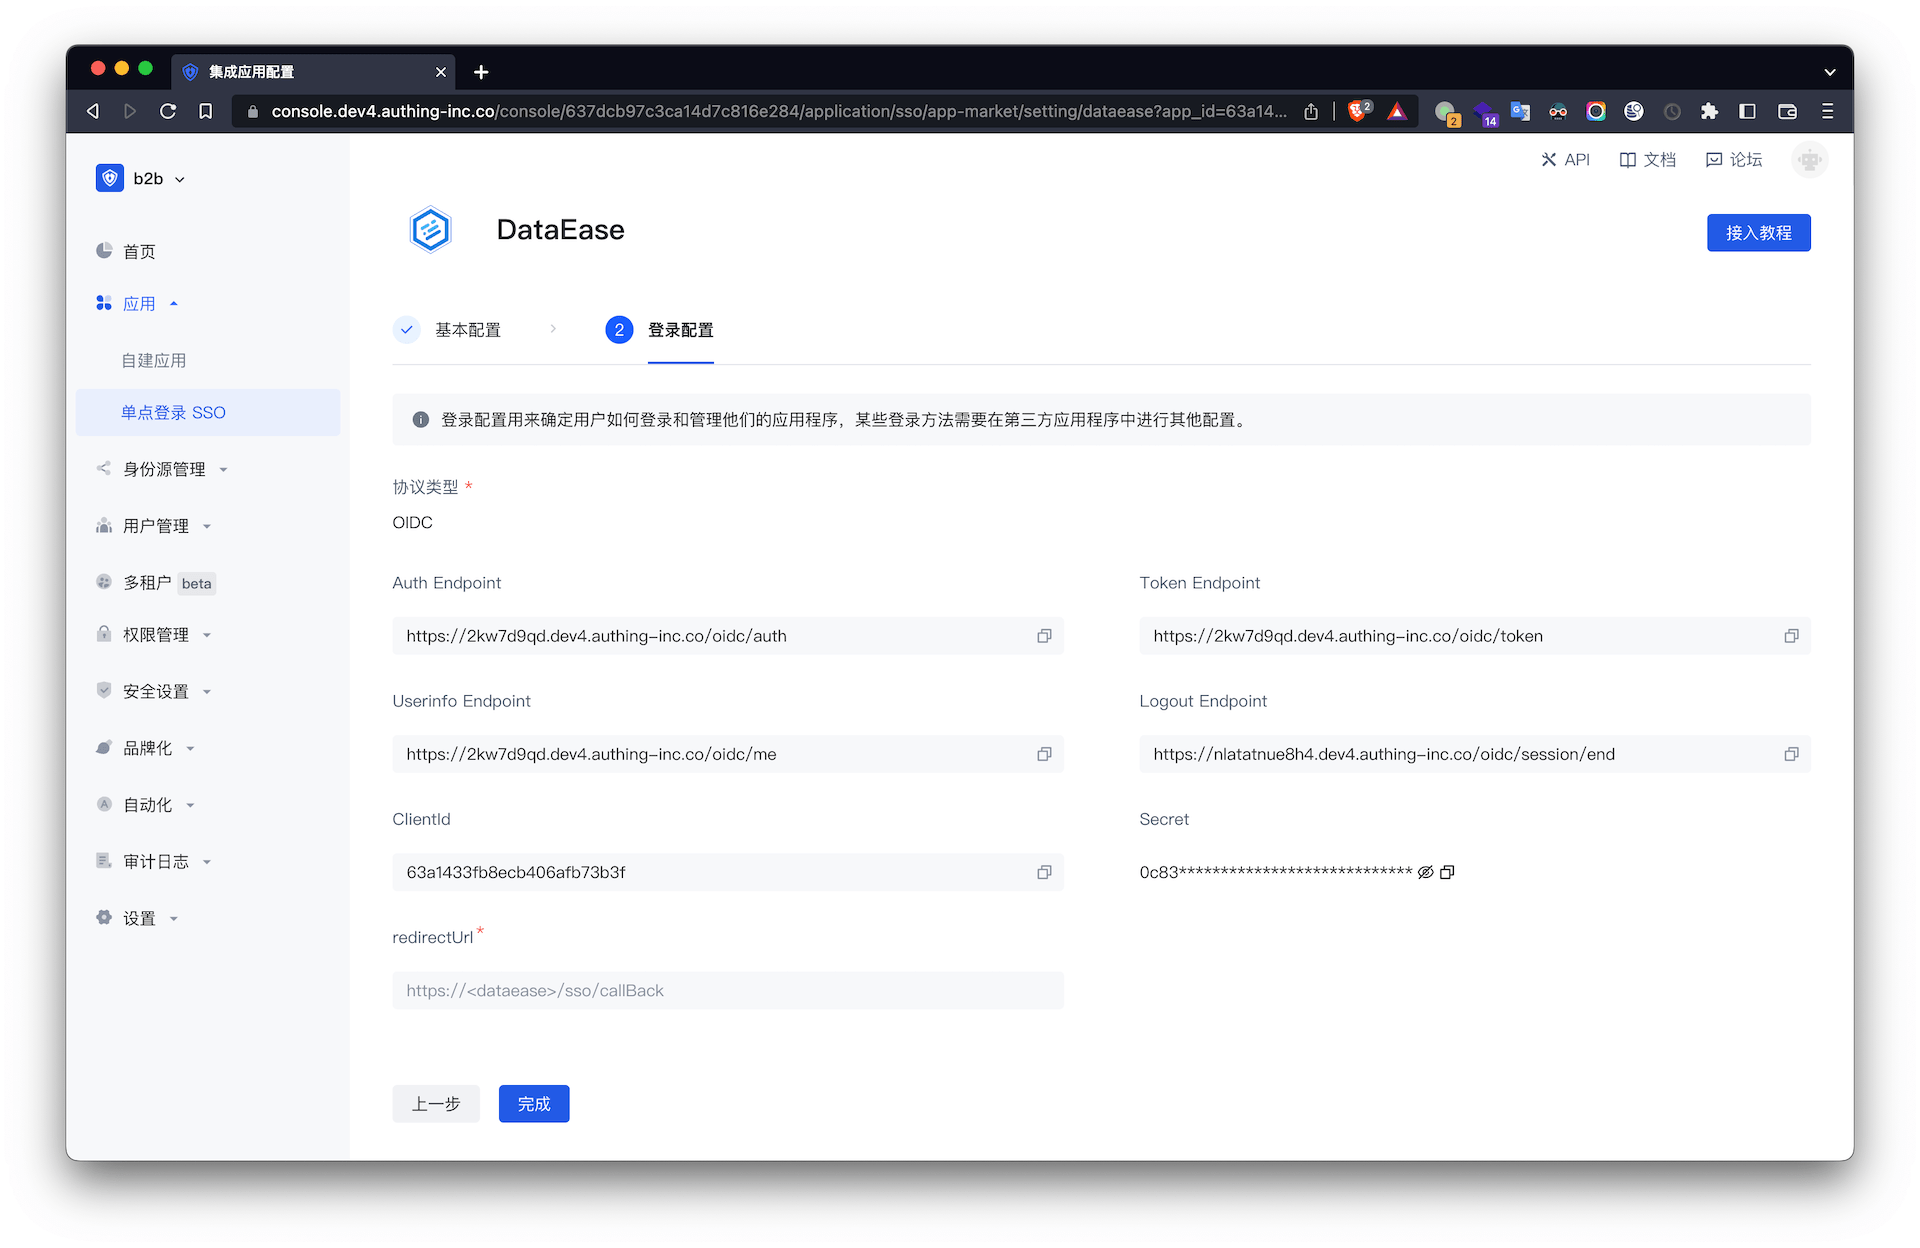
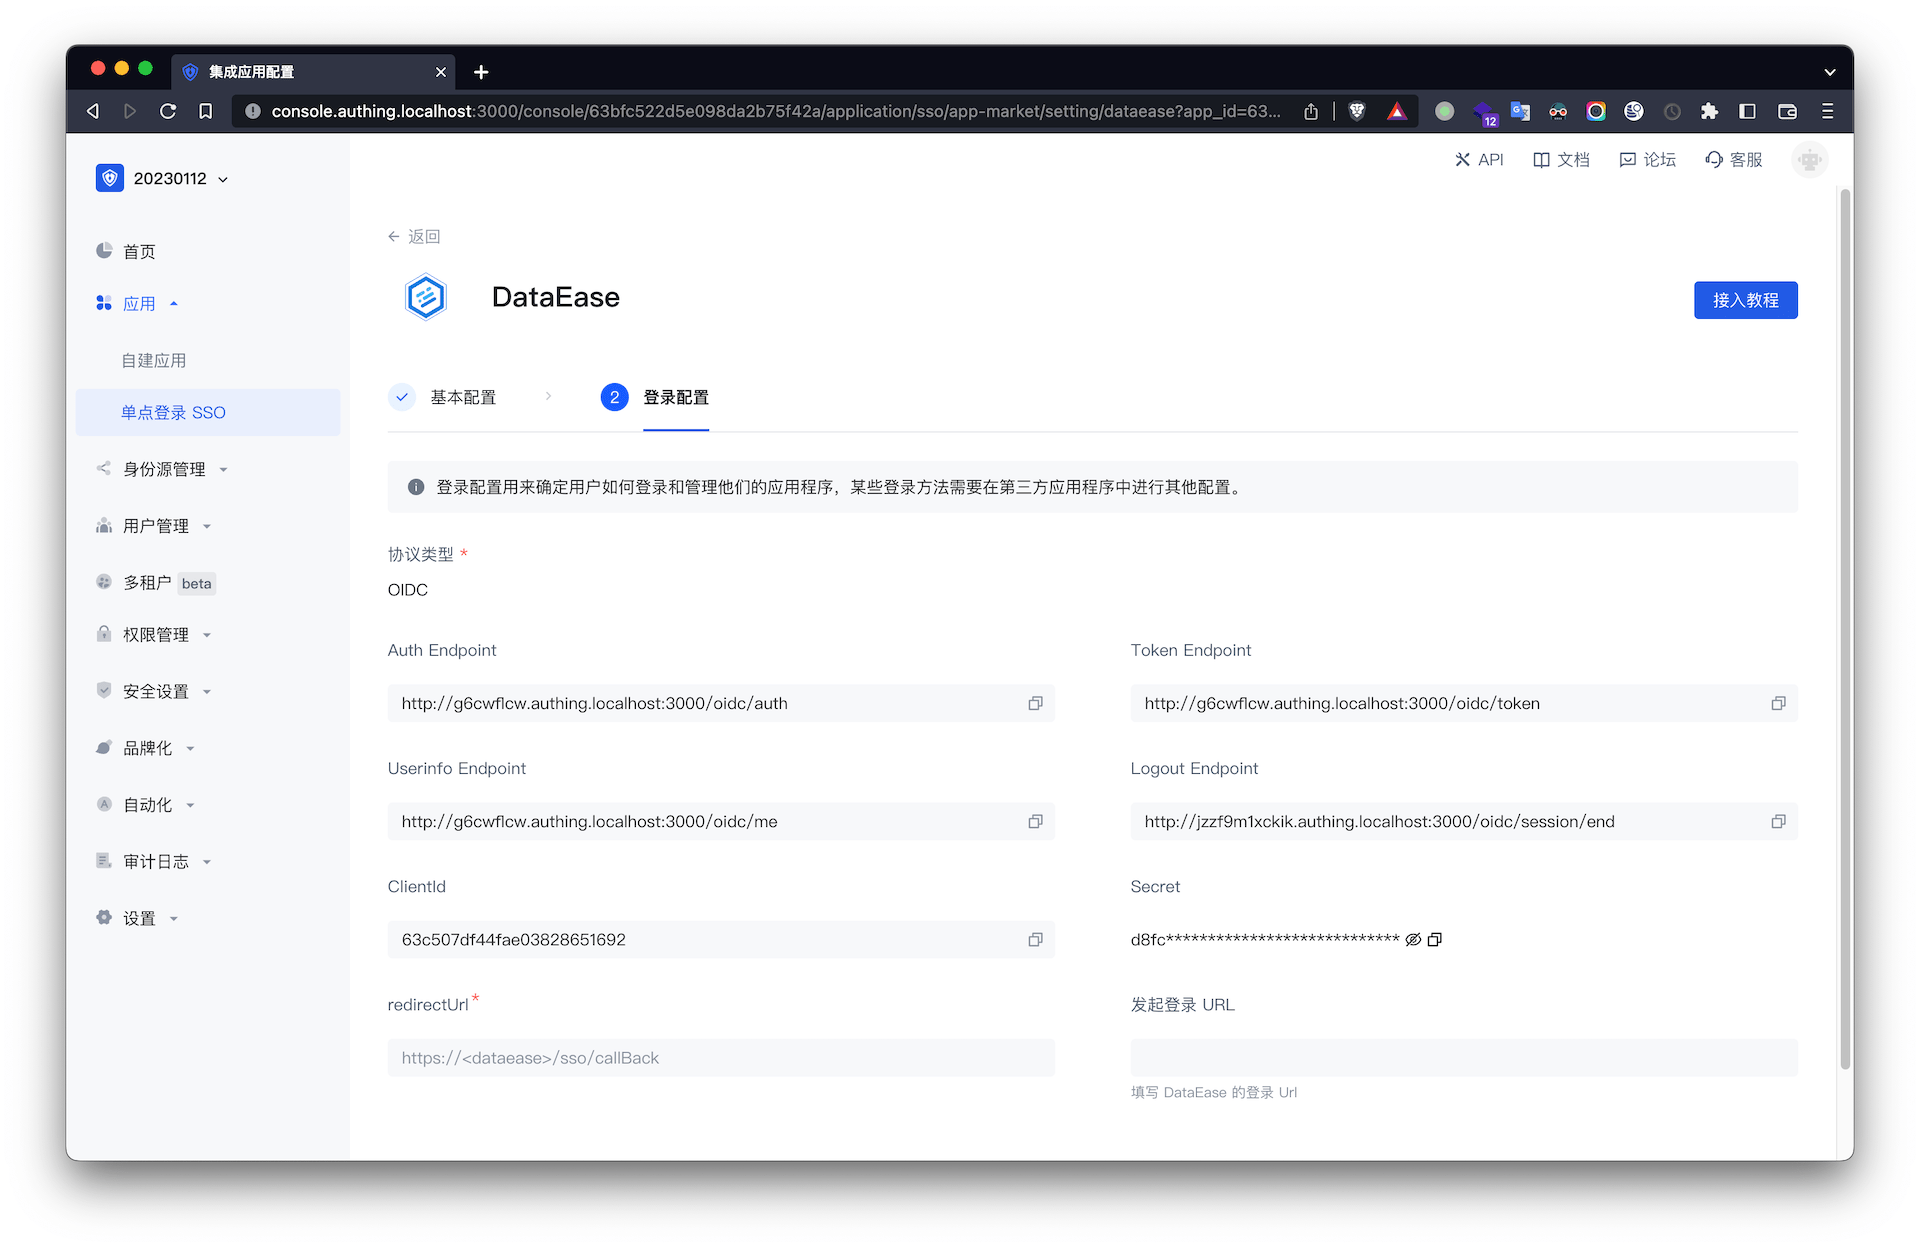
feat: add dataease login url

diff --git a/docs/integration/dataease/0.md b/docs/integration/dataease/0.md
@@ -12,6 +12,9 @@
 
 ![](~@imagesZhCn/integration/dataease/1-3.png)
 
+注意： 如果不知道发起登录 URL 的用处，可以不填。其示例值参考： `https://xxx-sso.authing.cn/oidc/auth?response_type=code&scope=openid%20profile%20username%20email%20phone&state=state&client_id=APP_ID&redirect_uri=REDIERCT_URL`
+
+
 在访问授权页点击「允许所有用户访问」（可以按照实际需求给部分用户授权）。
 
 ![](~@imagesZhCn/integration/dataease/1-4.png)
